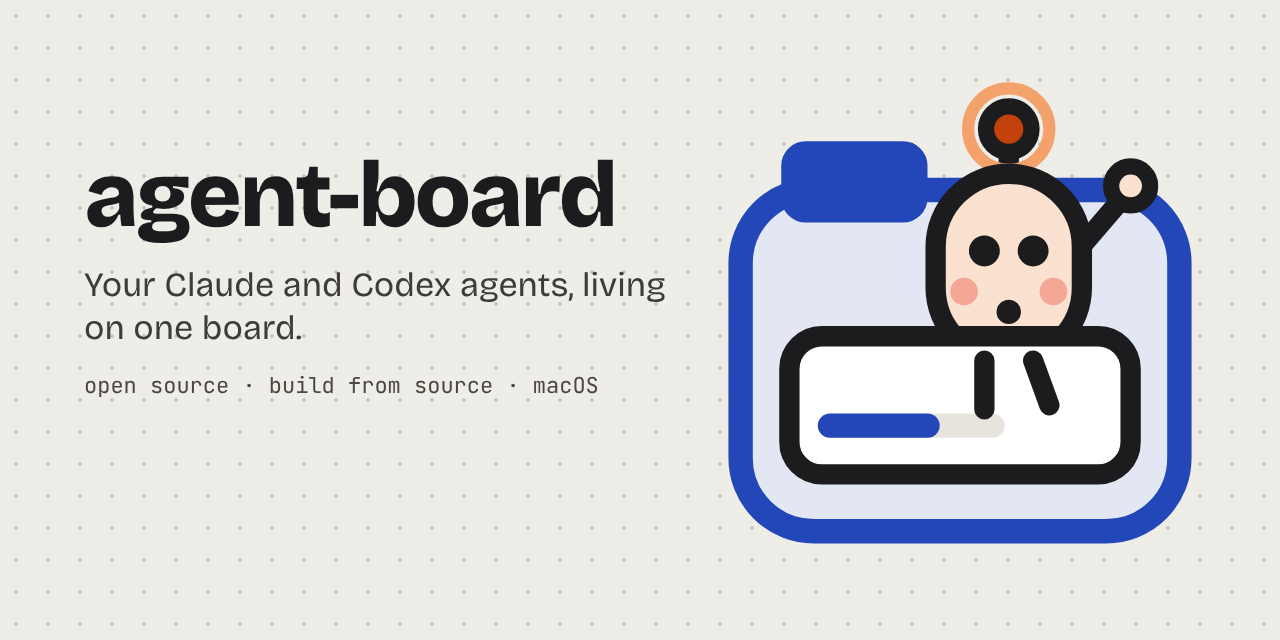
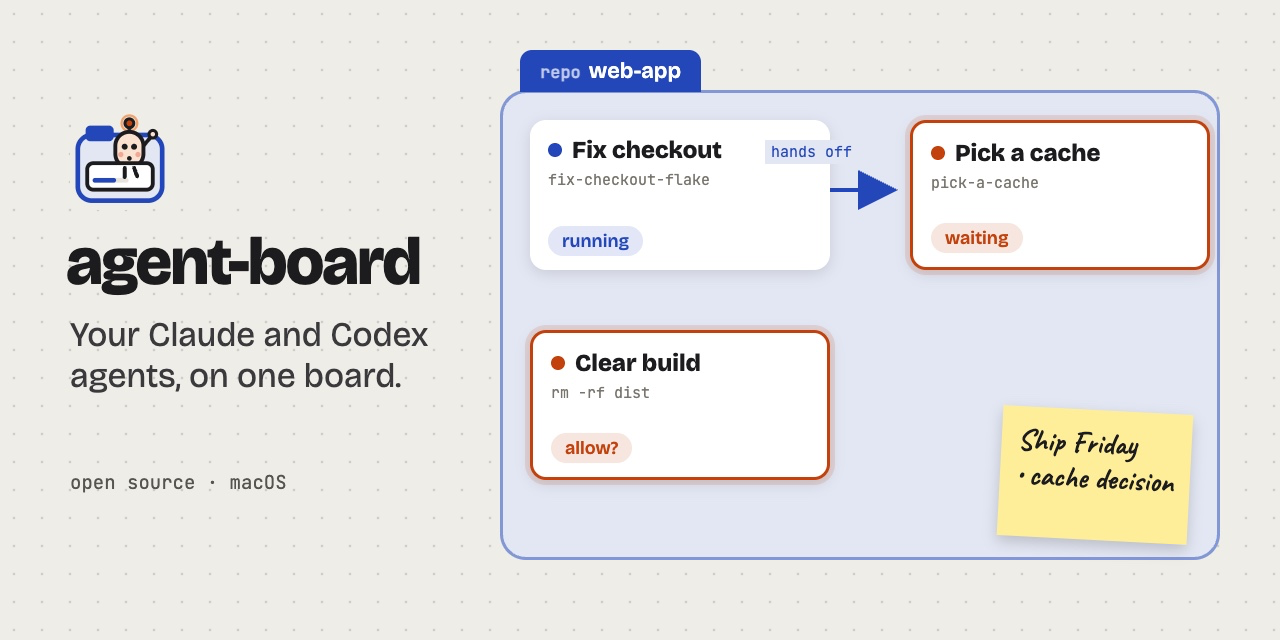
agent-board v0.5.3

Changed region(s): [[0.0312, 0.0625, 0.9688, 0.875], [0.0625, 0.7188, 0.2188, 0.7812], [0.375, 0.1562, 0.4062, 0.1875]]

diff --git a/CLA.md b/CLA.md
@@ -1,0 +1,59 @@
+# Contributor Licence Agreement
+
+This agreement is between you and the Licensor of agent-board. Read it before you send a contribution. You agree to it by
+ticking the CLA box in your pull request's template, or by commenting "I have read the CLA and I agree to it" on the pull
+request. It then covers every contribution you make to agent-board, unless you tell us in writing that you withdraw it
+for future contributions.
+
+## 1. Definitions
+
+- **Licensor** means the copyright holder named in this project's [LICENSE](LICENSE) file, and anyone to whom the
+  Licensor's rights in agent-board are later transferred.
+- **You** means the person, or the organisation they act for, who submits a Contribution.
+- **Contribution** means any code, documentation, artwork or other material you submit to agent-board, by pull request,
+  patch, issue or any other means, that is meant to be included in it. Material you mark "Not a Contribution" is not one.
+
+## 2. You keep your copyright
+
+You keep the copyright in your Contributions. This agreement grants licences; it does not transfer ownership.
+
+## 3. Copyright licence
+
+You grant the Licensor a perpetual, worldwide, non-exclusive, royalty-free, irrevocable licence to use, reproduce,
+modify, adapt, prepare derivative works of, publicly display, publicly perform, sublicense and distribute your
+Contributions and derivative works of them.
+
+The Licensor may distribute your Contributions under any licence terms it chooses, including open-source,
+source-available and proprietary or commercial terms, and may change those terms at any time.
+
+## 4. Patent licence
+
+You grant the Licensor, and everyone who receives agent-board from it, a perpetual, worldwide, non-exclusive,
+royalty-free, irrevocable patent licence to make, have made, use, offer to sell, sell, import and otherwise transfer your
+Contributions, alone or combined with agent-board. It covers only the patent claims you can license that your
+Contribution necessarily infringes, alone or combined with the work it was submitted to.
+
+## 5. What you confirm
+
+When you submit a Contribution, you confirm that:
+
+1. it is your original work, or you have the right to submit it under this agreement;
+2. if your employer or anyone else has rights in work you create, they have allowed you to make the Contribution under
+   this agreement, or have waived those rights for it;
+3. you have described any third-party material in it, with its licence, and any restriction you know of on using it; and
+4. to your knowledge, it does not infringe anyone else's rights.
+
+You'll tell the Licensor if any of these stops being true.
+
+## 6. No obligation and no warranty
+
+The Licensor does not have to use your Contribution. Apart from section 5, you give your Contributions "as is", without
+warranties or conditions of any kind.
+
+## 7. Transfer
+
+The Licensor may transfer this agreement, and the rights it grants, to anyone who takes over its rights in agent-board.
+
+## 8. Governing law
+
+This agreement is governed by the law of Scotland, and the Scottish courts have jurisdiction over any dispute about it.

diff --git a/README.md b/README.md
@@ -8,7 +8,7 @@
 </p>
 
 <p align="center">
-  <a href="LICENSE"><img src="https://img.shields.io/badge/licence-MIT-blue" alt="Licence: MIT"></a>
+  <a href="LICENSE"><img src="https://img.shields.io/badge/licence-FSL--1.1--ALv2-blue" alt="Licence: FSL-1.1-ALv2"></a>
   <img src="https://img.shields.io/badge/platform-macOS-lightgrey" alt="Platform: macOS">
   <img src="https://img.shields.io/badge/status-alpha-yellow" alt="Status: alpha">
 </p>
@@ -135,6 +135,6 @@ Contributions are welcome. Read [CONTRIBUTING.md](CONTRIBUTING.md) for setup, co
 
 ## Licence
 
-[MIT](LICENSE).
+[Functional Source License 1.1, Apache 2.0 future licence](LICENSE) (FSL-1.1-ALv2). You can use, change and share agent-board for anything except a competing commercial product or service, and each release also becomes available under the Apache License 2.0 two years after it ships. Releases up to v0.5.2 were published under the MIT Licence and stay available under it.
 
 Claude and Claude Code are trademarks of Anthropic, PBC. Codex is a trademark of OpenAI. agent-board is an independent project, not affiliated with or endorsed by either company; their names and brand assets are used only to identify the tools agent-board works with, following each owner's brand guidelines.

diff --git a/CONTRIBUTING.md b/CONTRIBUTING.md
@@ -104,4 +104,10 @@ The gate is the `pnpm check:pr` table on the PR, run on the PR's head commit, an
 
 ## Licence
 
-By contributing, you agree that your contributions are licensed under the [MIT Licence](LICENSE).
+agent-board is under the [Functional Source License 1.1, Apache 2.0 future licence](LICENSE) (FSL-1.1-ALv2).
+
+Before a contribution can be merged, you need to agree to the [Contributor Licence Agreement](CLA.md). You keep the
+copyright in your work; the agreement lets the project use it and offer it under any licence, including a commercial
+one, so the project can change its licence or offer paid editions without asking every past contributor. Agree to it
+by ticking its box in the PR template, or by commenting "I have read the CLA and I agree to it" on your PR. You only
+need to do it once.

diff --git a/.github/pull_request_template.md b/.github/pull_request_template.md
@@ -27,3 +27,4 @@ Fixes #
 - [ ] No test calls the real `claude` or `codex` (use `packages/fake-harness`)
 - [ ] `pnpm check:pr` passes on the head commit (it runs the full `pnpm check:local` when the gate, shared config, helpers, fakes or protocol change), and its table is under "How to verify"
 - [ ] README, `CONTEXT.md` and ADRs updated if this changes a command, a domain term or a decision
+- [ ] I have read the [Contributor Licence Agreement](https://github.com/GarethCa/agent-board/blob/main/CLA.md) and I agree to it

diff --git a/CHANGELOG.md b/CHANGELOG.md
@@ -1,5 +1,10 @@
 # Changelog
 
+## v0.5.3 (2026-10-19)
+
+- Switch to FSL-1.1-ALv2 and add a contributor licence agreement
+- The social preview shows a mini board: agents in three states, a hand-off and a note
+
 ## v0.5.2 (2026-10-17)
 
 - A shorter README: a visual front page, with the full tour, install notes, quick start, FAQ, troubleshooting and how it works under docs/
